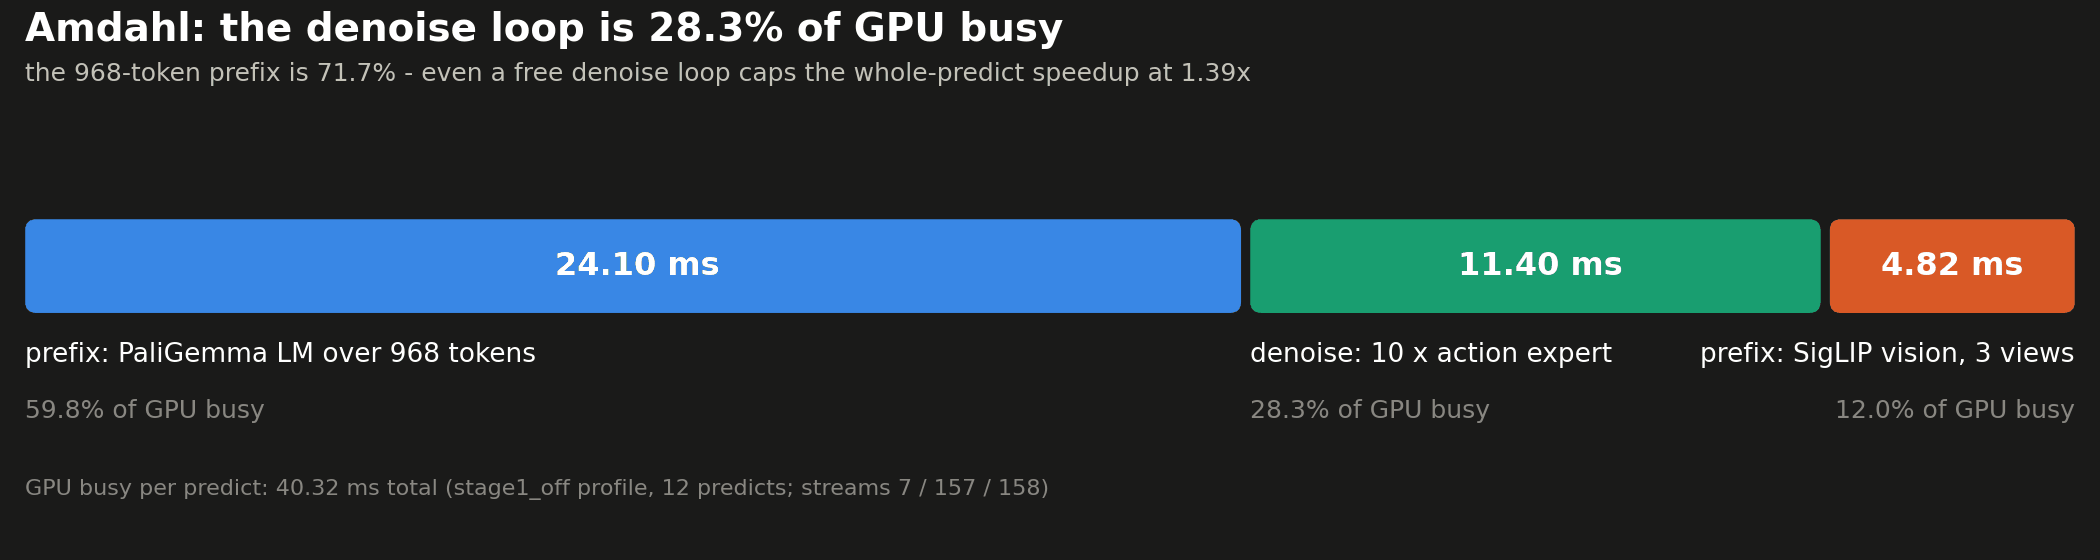
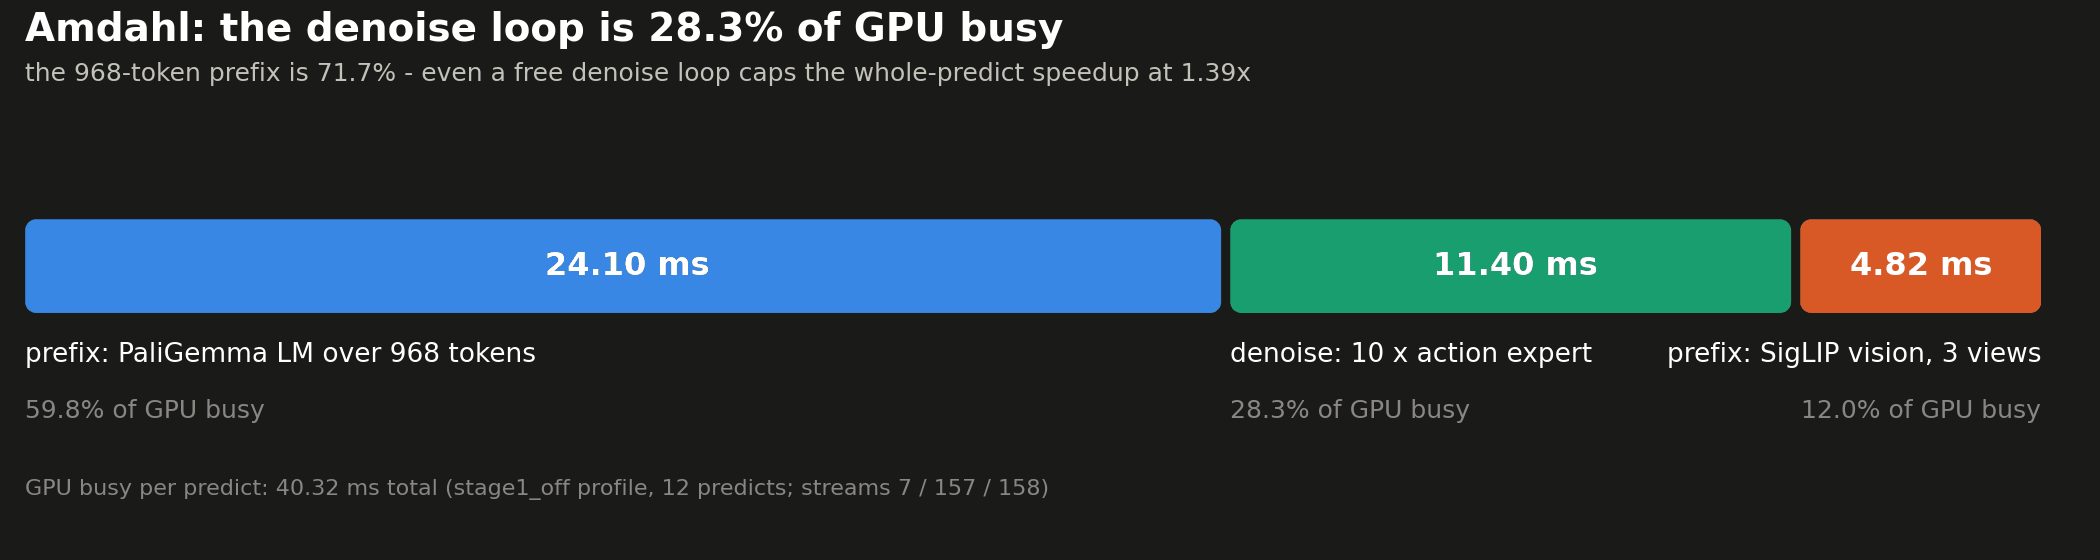
docs(charts): build rounded bars from an explicit path, not FancyBboxPatch
mutation_aspect divides the box height, applies the corner rounding and
scales back, so at chart 2's aspect (~0.038 y-data per x-data) the
intermediate box degenerates and every bar renders at full row height as
one solid band. Chart 1 (aspect ~1.4) survived it, which is why only the
denoise chart ever looked wrong.

Build the rectangle-with-arc-corners path directly instead, converting
points to data units per axis so the arcs stay round on screen. No
mutation, no aspect handling, version-independent output.

diff --git a/docs/make_charts.py b/docs/make_charts.py
@@ -30,7 +30,8 @@ import matplotlib
 
 matplotlib.use("Agg")
 import matplotlib.pyplot as plt  # noqa: E402
-from matplotlib.patches import BoxStyle, FancyBboxPatch  # noqa: E402
+from matplotlib.path import Path as MplPath  # noqa: E402
+from matplotlib.patches import PathPatch  # noqa: E402
 
 OUT = Path(__file__).resolve().parent
 
@@ -92,13 +93,28 @@ def _chrome(ax, t: dict, xgrid: bool = True) -> None:
     ax.tick_params(length=0)
 
 
+_KAPPA = 0.5522847498307936  # circle -> cubic-Bezier control-point ratio
+
+
 def _rounded_hbar(ax, y, x0, x1, height, color, radius_pt=4.0, zorder=3):
     """Horizontal bar with ~4pt-rounded ends, drawn in data coordinates.
 
-    matplotlib has no rounded bars, so this is a FancyBboxPatch whose corner
-    radius is converted from points to *both* data axes (they have different
-    scales), with ``mutation_aspect`` carrying the x->y ratio.  Call it only
-    after the axes limits and the subplot geometry are final.
+    matplotlib has no rounded bars.  The obvious construction -- a
+    ``FancyBboxPatch`` with ``boxstyle="Round"`` and ``mutation_aspect``
+    carrying the x->y scale ratio -- is *not* usable here: ``mutation_aspect``
+    divides the box height, runs the corner rounding, then scales back, so at
+    the aspect ratios these charts use (chart 2 is ~0.038 data units of y per
+    data unit of x) the intermediate box degenerates and the patch renders at
+    full row height, one solid band per bar.  Chart 1 (aspect ~1.4) survives
+    it, which is why only chart 2 ever looked broken.
+
+    So the path is built explicitly instead: a rectangle whose four corners are
+    circular arcs of ``radius_pt`` points, with the point->data conversion done
+    separately per axis so the arcs are round *on screen*.  No mutation, no
+    aspect handling, identical output on any matplotlib version.
+
+    Call it only after the axes limits and the subplot geometry are final --
+    the conversion reads ``ax.get_window_extent()``.
     """
     fig = ax.figure
     bbox = ax.get_window_extent()
@@ -106,17 +122,38 @@ def _rounded_hbar(ax, y, x0, x1, height, color, radius_pt=4.0, zorder=3):
     yr = ax.get_ylim()[1] - ax.get_ylim()[0]
     px_per_x = bbox.width / xr
     px_per_y = bbox.height / yr
-    r_px = radius_pt * fig.dpi / 72.0
-    r_x = min(r_px / px_per_x, abs(x1 - x0) / 2.0)
-    r_y = min(r_px / px_per_y, height / 2.0)
-    r_x = min(r_x, r_y * px_per_y / px_per_x)
-    r_y = r_x * px_per_x / px_per_y
-    p = FancyBboxPatch(
-        (min(x0, x1), y - height / 2),
-        abs(x1 - x0),
-        height,
-        boxstyle=BoxStyle("Round", pad=0, rounding_size=r_x),
-        mutation_aspect=r_y / r_x if r_x else 1.0,
+
+    xa, xb = min(x0, x1), max(x0, x1)
+    ya, yb = y - height / 2.0, y + height / 2.0
+
+    # one radius in pixels, clamped so it can never exceed half the bar in
+    # either direction, then converted back into each axis' data units
+    r_px = min(
+        radius_pt * fig.dpi / 72.0,
+        (xb - xa) / 2.0 * px_per_x,
+        height / 2.0 * px_per_y,
+    )
+    rx = r_px / px_per_x
+    ry = r_px / px_per_y
+    k = 1.0 - _KAPPA
+
+    verts = [
+        (xa + rx, ya),  # start after the bottom-left corner
+        (xb - rx, ya),  # bottom edge
+        (xb - rx * k, ya), (xb, ya + ry * k), (xb, ya + ry),  # bottom-right arc
+        (xb, yb - ry),  # right edge
+        (xb, yb - ry * k), (xb - rx * k, yb), (xb - rx, yb),  # top-right arc
+        (xa + rx, yb),  # top edge
+        (xa + rx * k, yb), (xa, yb - ry * k), (xa, yb - ry),  # top-left arc
+        (xa, ya + ry),  # left edge
+        (xa, ya + ry * k), (xa + rx * k, ya), (xa + rx, ya),  # bottom-left arc
+        (xa + rx, ya),
+    ]
+    C, L, M = MplPath.CURVE4, MplPath.LINETO, MplPath.MOVETO
+    codes = [M, L, C, C, C, L, C, C, C, L, C, C, C, L, C, C, C, MplPath.CLOSEPOLY]
+
+    p = PathPatch(
+        MplPath(verts, codes),
         linewidth=0,
         facecolor=color,
         zorder=zorder,
@@ -179,6 +216,8 @@ def chart_ledger(mode: str) -> None:
     ax.axvline(PEER_MS, color=t["s2"], lw=1.6, ls=(0, (4, 3)), zorder=2)
     ax.text(PEER_MS + 0.16, n - 0.10, PEER_LABEL, ha="left", va="top",
             fontsize=8.5, color=t["s2"])
+    ax.text(PEER_MS + 0.16, n - 0.42, "separate session - not a paired A/B",
+            ha="left", va="top", fontsize=7.5, color=t["muted"])
 
     prev = base
     for y, (label, after, delta, _src) in zip(ys, rows):
@@ -294,13 +333,15 @@ def chart_denoise(mode: str) -> None:
     t = THEMES[mode]
     _style(t)
     colors = {0: t["s1"], 1: t["s2"], 2: t["s3"]}
-    fig, ax = plt.subplots(figsize=(10.5, 5.0), dpi=200)
+    fig, ax = plt.subplots(figsize=(10.5, 5.4), dpi=200)
 
     n = len(DENOISE)
     ys = list(range(n))[::-1]
-    ax.set_xlim(0, 392)
+    # headroom on the right so the longest value label ("312.5 us  18/step",
+    # on the top bar) clears the figure edge instead of being clipped
+    ax.set_xlim(0, 432)
     ax.set_ylim(-0.7, n - 0.3)
-    fig.subplots_adjust(left=0.415, right=0.985, top=0.865, bottom=0.115)
+    fig.subplots_adjust(left=0.415, right=0.985, top=0.875, bottom=0.205)
     _chrome(ax, t)
 
     for y, (label, us, kern, grp) in zip(ys, DENOISE):
@@ -318,16 +359,19 @@ def chart_denoise(mode: str) -> None:
                    label=GROUP_NAMES[g])
         for g in (2, 0, 1)
     ]
-    ax.legend(handles=handles, loc="lower right", frameon=False, fontsize=8.5,
-              labelcolor=t["ink2"], handletextpad=0.6, borderpad=0.2)
+    # figure-level, below the axes: inside the axes the legend sat on top of
+    # the two shortest bars' rows
+    fig.legend(handles=handles, loc="lower left", bbox_to_anchor=(0.010, 0.048),
+               ncol=3, frameon=False, fontsize=8.5, labelcolor=t["ink2"],
+               handletextpad=0.6, borderpad=0.2, columnspacing=1.6)
 
     fig.suptitle("Where a denoise step goes: 1232.6 us, 238 kernels", x=0.012,
                  ha="left", fontsize=14, fontweight="bold", color=t["ink"])
-    fig.text(0.012, 0.905,
+    fig.text(0.012, 0.912,
              "current build, nsys 2026.1.2, stream 157 (Stage-1 captured graph), "
              "12 predicts x 10 steps - 10 steps = 12.33 ms of the 43.16 ms predict",
              ha="left", fontsize=9, color=t["ink2"])
-    fig.text(0.012, 0.015,
+    fig.text(0.012, 0.013,
              "the 37 adaRMS dense(cond) projections that used to cost 395 us/step here "
              "(triton_per_fused_addmm_0, 300 instances) are gone - 0 instances",
              ha="left", fontsize=7.5, color=t["muted"])
@@ -379,7 +423,9 @@ def chart_phases(mode: str) -> None:
     ax.set_yticks([])
     ax.set_xticks([])
     ax.tick_params(length=0)
-    fig.subplots_adjust(left=0.012, right=0.988, top=0.66, bottom=0.10)
+    # right < 0.99 so the last segment's right-aligned label ("prefix: SigLIP
+    # vision, 3 views") keeps a margin instead of running into the figure edge
+    fig.subplots_adjust(left=0.012, right=0.972, top=0.66, bottom=0.10)
 
     gap = PHASE_TOTAL * 0.0045  # 2px surface gap between segments
     x = 0.0
